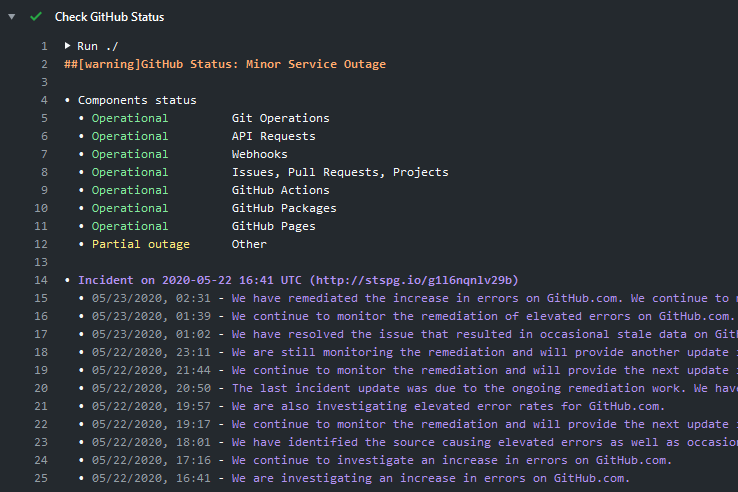
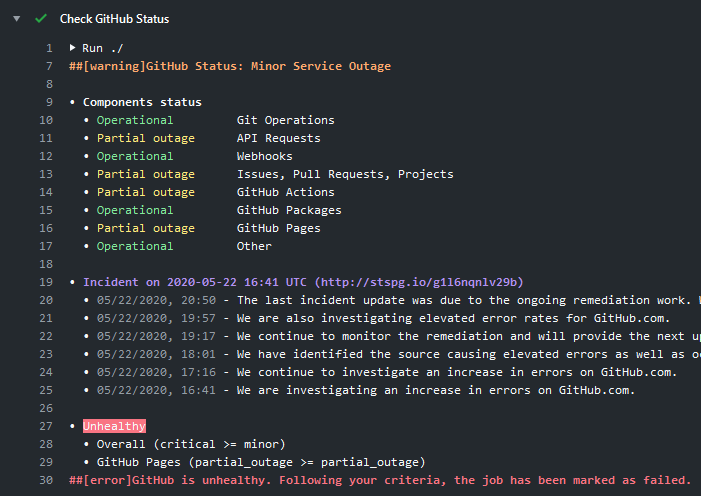
Update screenshots

Changed region(s): [[0.0, 0.0, 1.0, 1.0]]

diff --git a/README.md b/README.md
@@ -11,7 +11,7 @@ A GitHub Action to check [GitHub Status](https://www.githubstatus.com/) in your 
 
 If you are interested, [check out](https://git.io/Je09Y) my other :octocat: GitHub Actions!
 
-![GitHub Status Action](.github/ghaction-github-status.png)
+![GitHub Status Action - Failed](.github/ghaction-github-status.png) ![GitHub Status Action - OK](.github/ghaction-github-status2.png)
 
 ___
 
